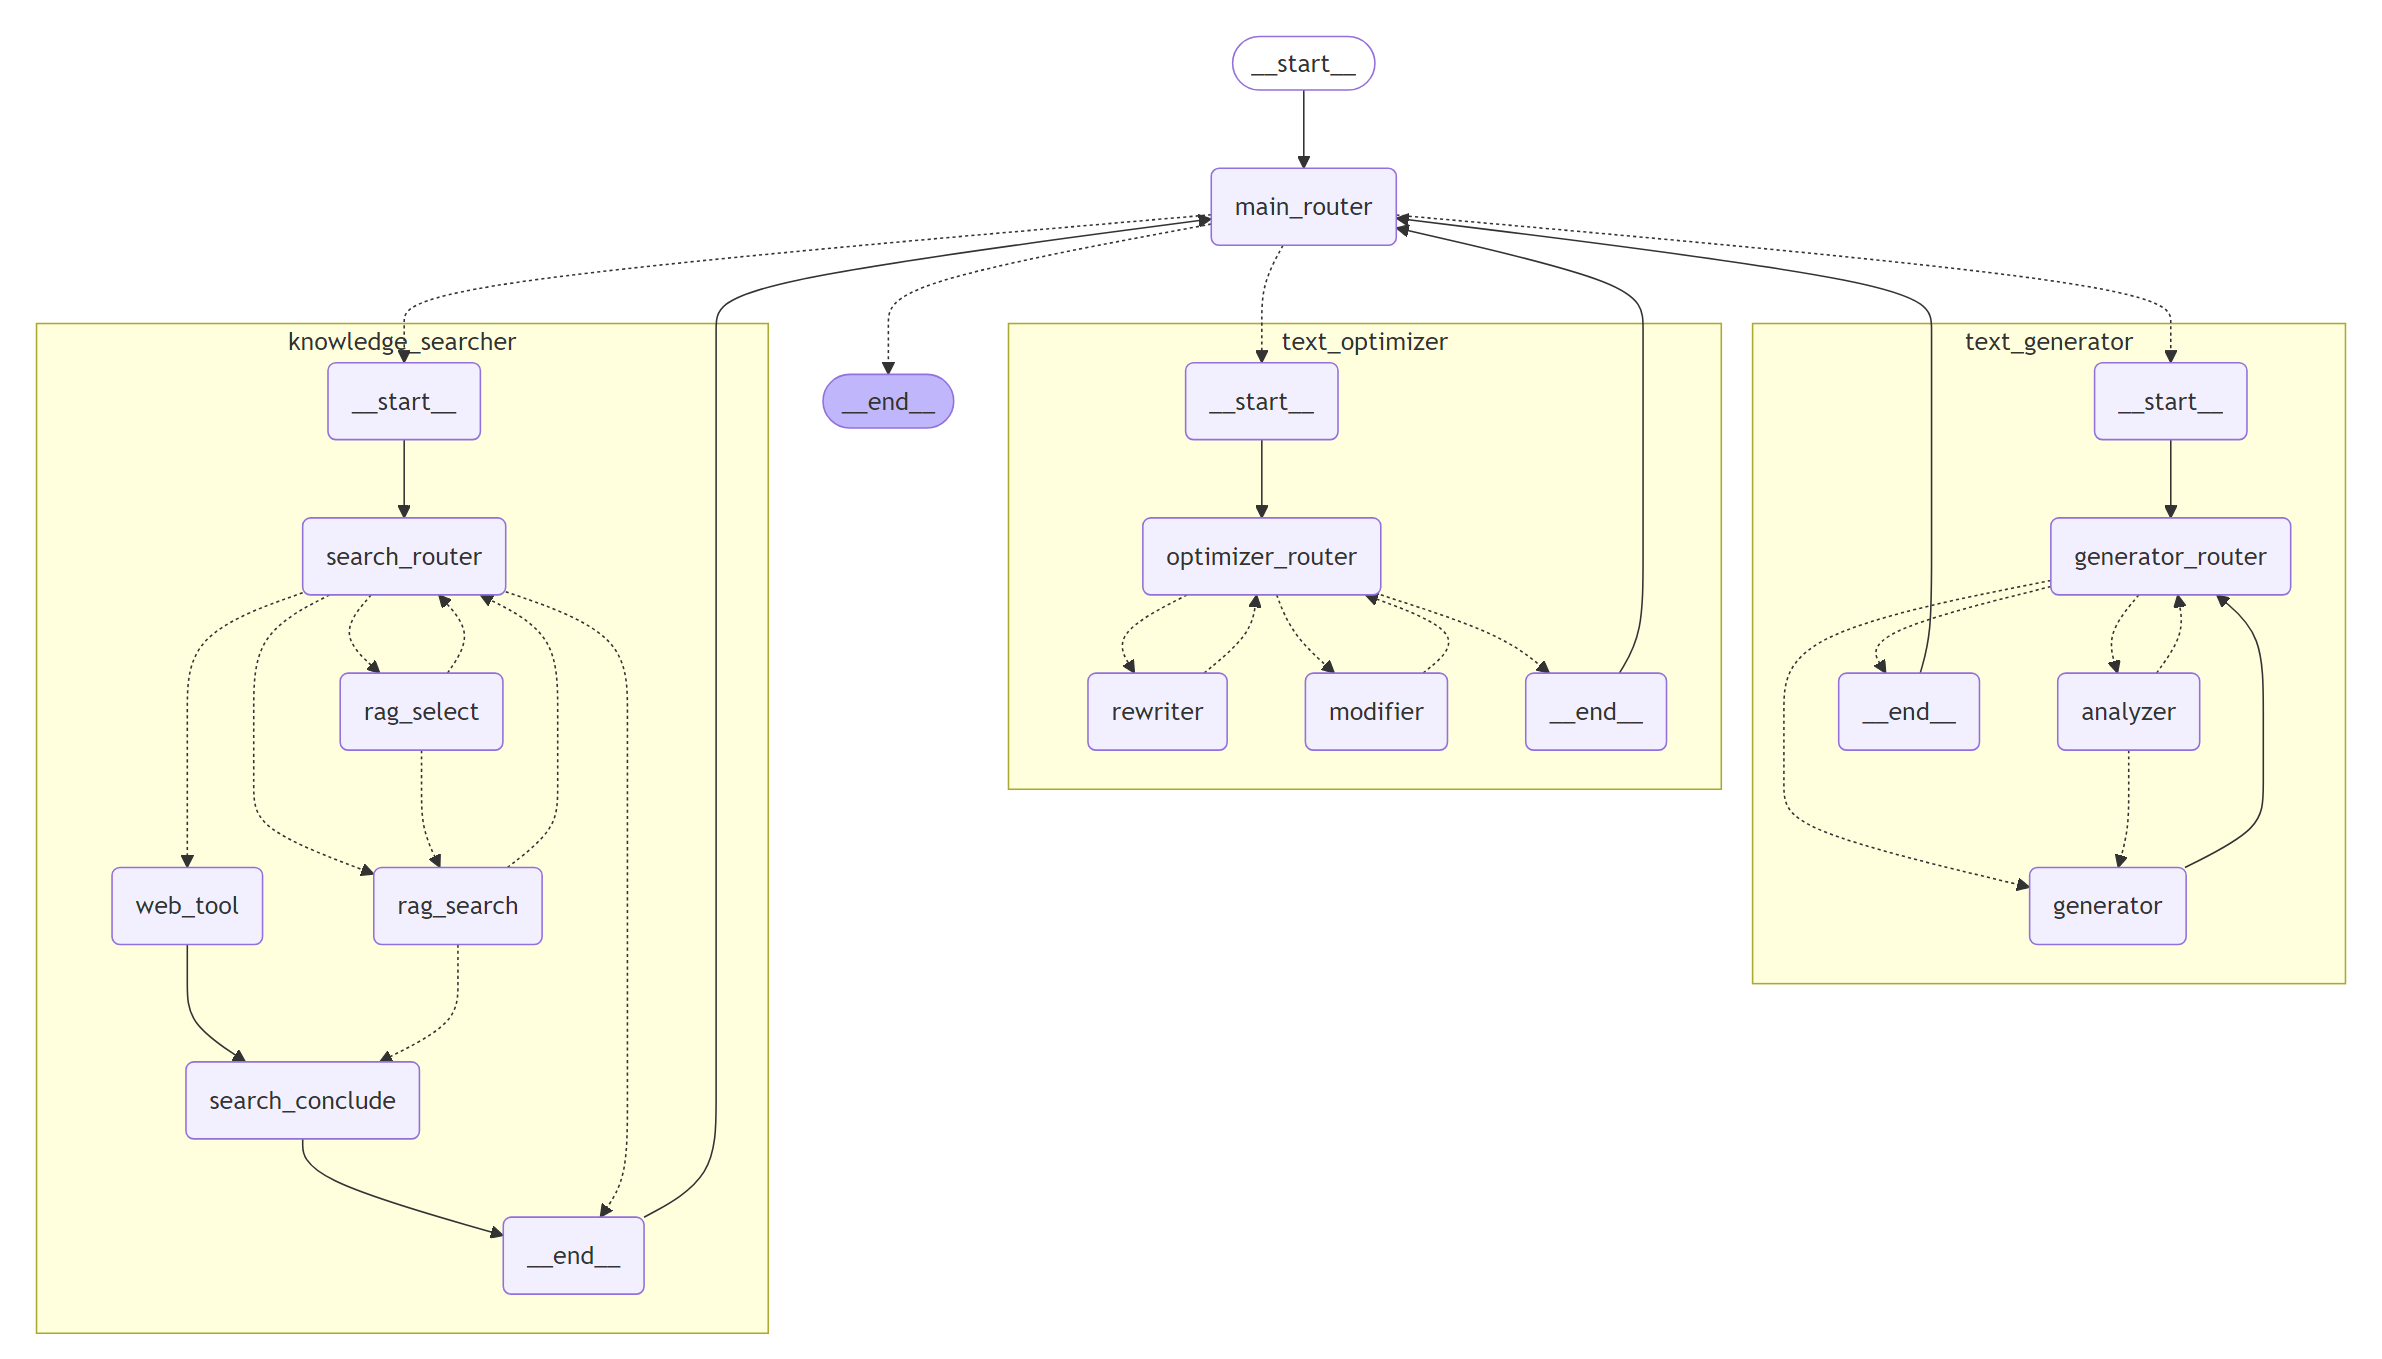
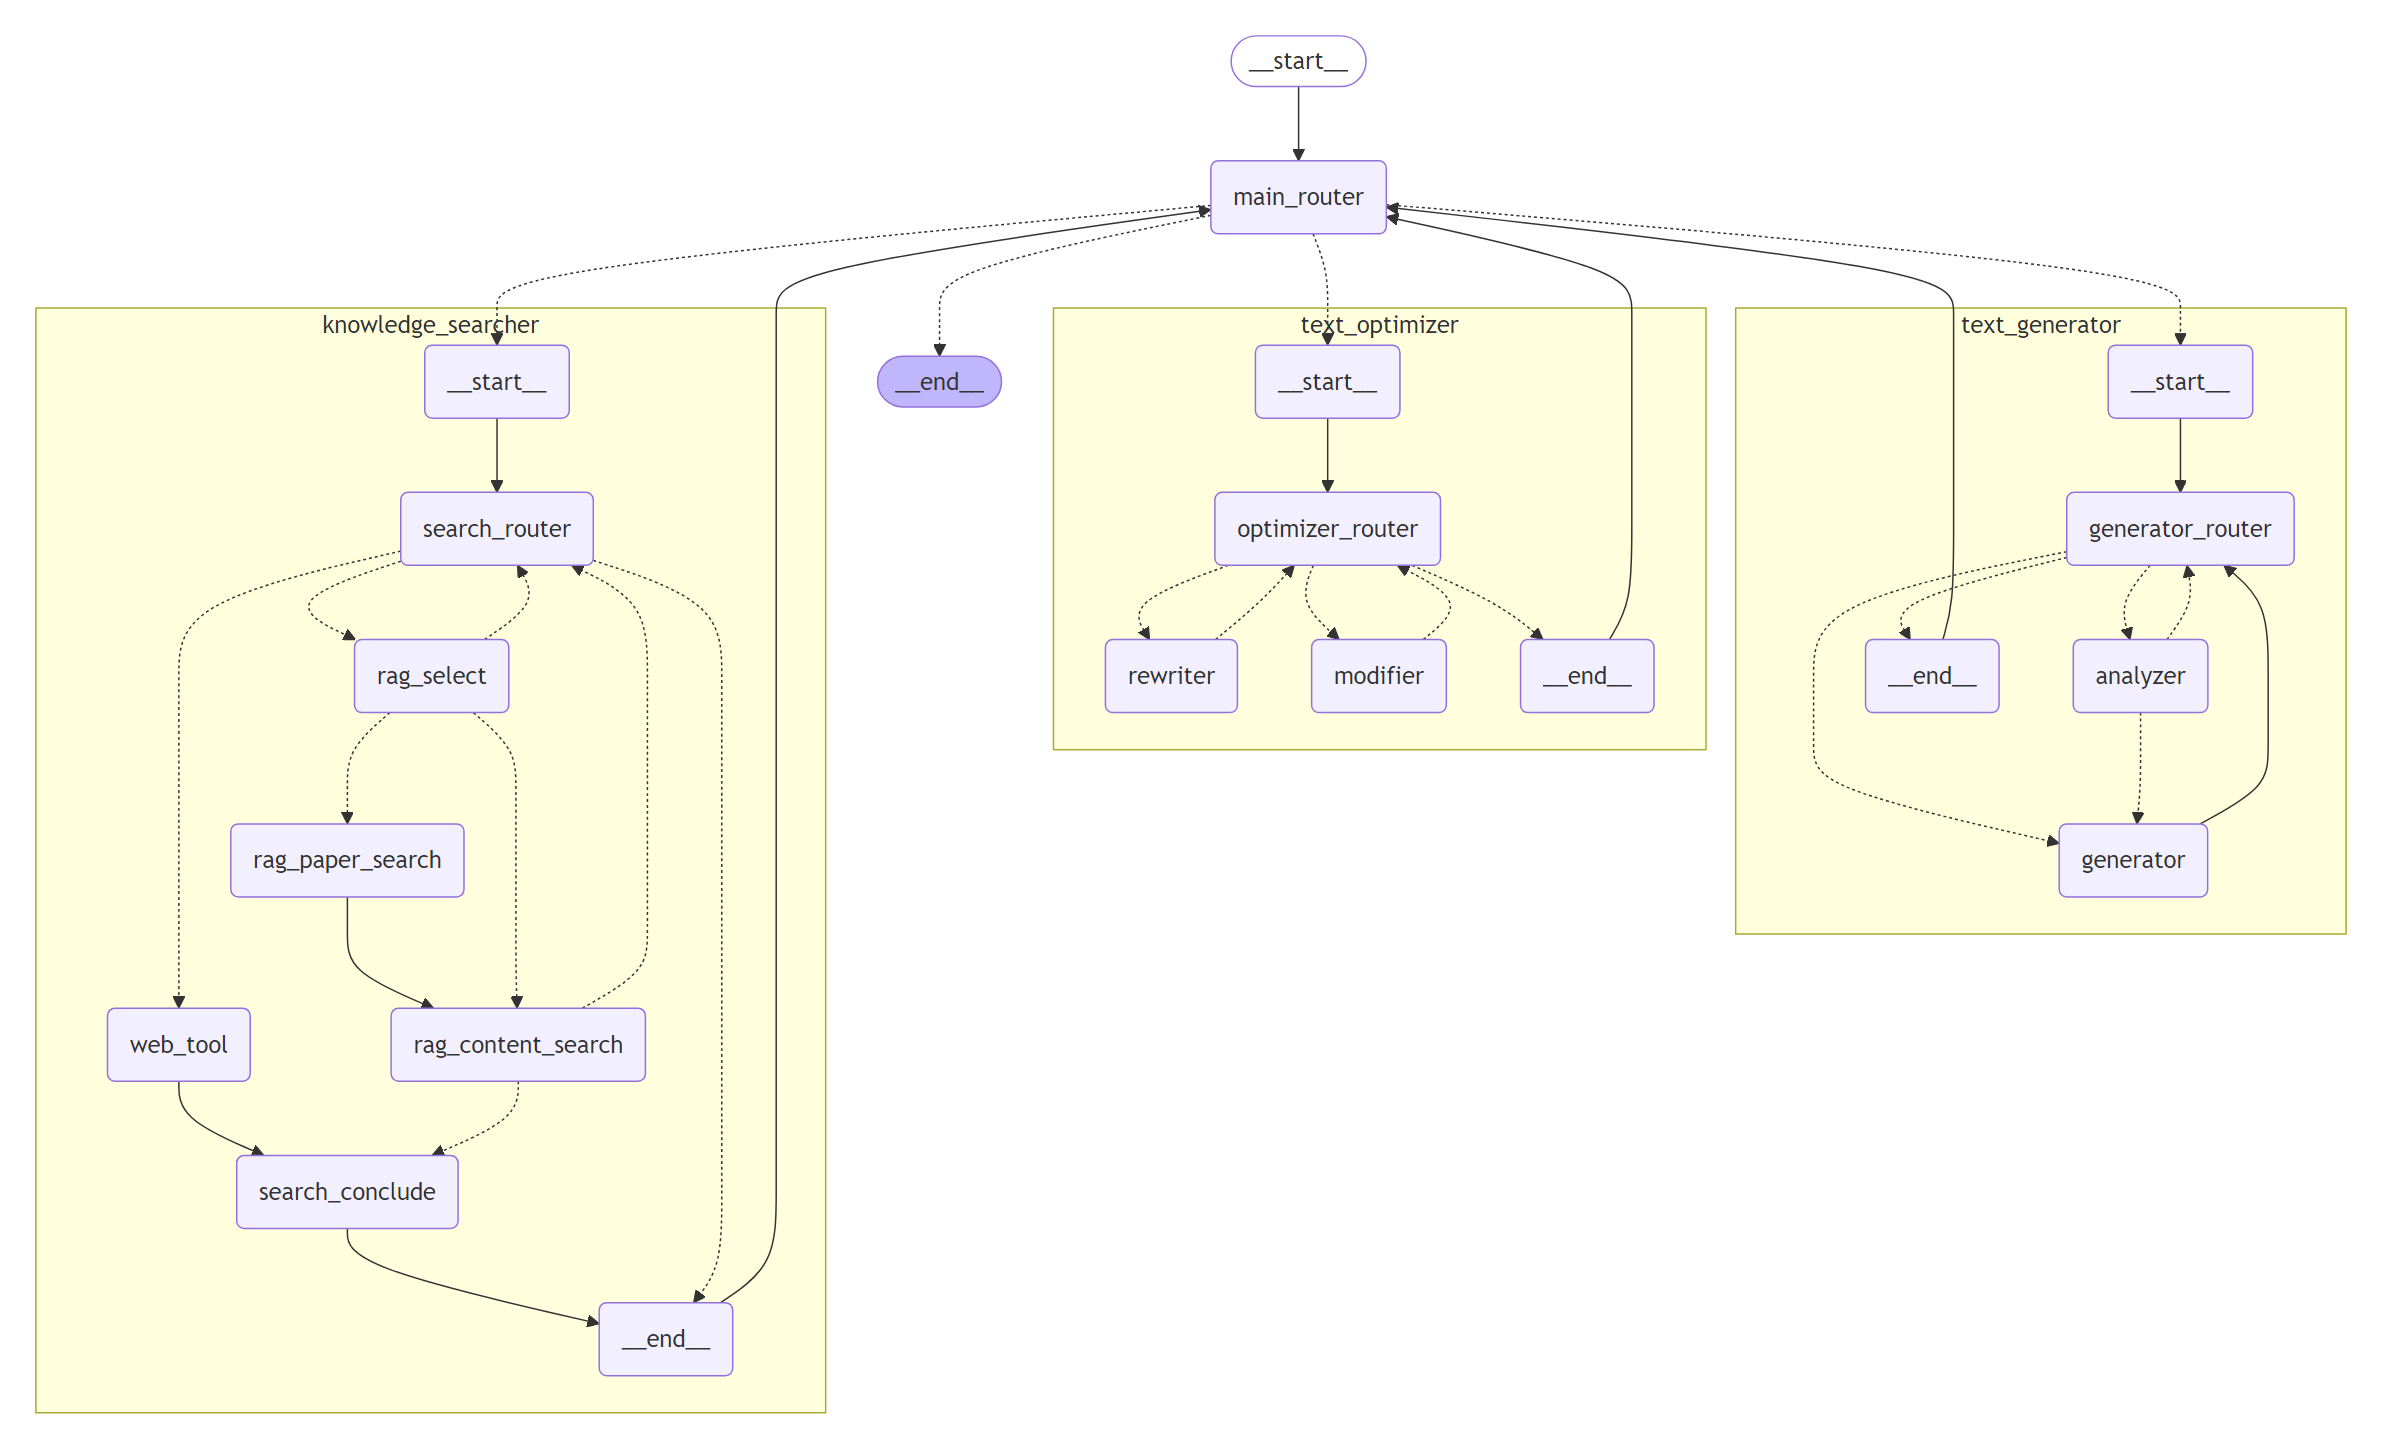
修改知识库查询逻辑

Changed region(s): [[0.0, 0.0, 0.9941, 0.989]]

diff --git a/llm/core/agent.py b/llm/core/agent.py
@@ -55,6 +55,7 @@ class BaseAgentState(MessagesState):
 
 
 class KnowledgeManageAgentState(BaseAgentState):
+    sources: Annotated[list[str], operator.add]
     documents: Annotated[list[Document], operator.add]
 
 
@@ -115,12 +116,12 @@ class KnowledgeManageAgent(BaseModel):
                 return 'web_tool'
             elif tool_call['name'] == self.select_tool.name:
                 return 'rag_select'
-        else:
-            return '__end__'
+
+        return '__end__'
 
     def rag_select_node(
         self, state: KnowledgeManageAgentState
-    ) -> Command[Literal['search_router', 'rag_search']]:
+    ) -> Command[Literal['search_router', 'rag_paper_search', 'rag_content_search']]:
         messages = state['messages']
         tool_call: ToolCall = messages[-1].tool_calls[0]
         tool_call_id = tool_call['id']
@@ -159,31 +160,62 @@ class KnowledgeManageAgent(BaseModel):
                 )
 
         messages.pop(-1)
-        return Command(
-            update={
-                'messages': [
-                    AIMessage(
-                        '',
-                        tool_calls=[
-                            ToolCall(
-                                name=self.rag_search_tool.name,
-                                args=select_result.model_dump(),
-                                id=tool_call_id,
-                            )
-                        ],
-                    )
-                ],
-                'price': token_usage.calculate_cost(self.router_llm),
-            },
-            goto='rag_search',
-        )
+        if select_result.paper_first:
+            return Command(
+                update={
+                    'messages': [
+                        AIMessage(
+                            '',
+                            tool_calls=[
+                                ToolCall(
+                                    name=self.rag_search_tool.name,
+                                    args=select_result.model_dump(),
+                                    id=tool_call_id,
+                                )
+                            ],
+                        )
+                    ],
+                    'price': token_usage.calculate_cost(self.router_llm),
+                },
+                goto='rag_paper_search',
+            )
+        else:
+            return Command(
+                update={
+                    'messages': [
+                        AIMessage(
+                            '',
+                            tool_calls=[
+                                ToolCall(
+                                    name=self.rag_search_tool.name,
+                                    args=select_result.model_dump(),
+                                    id=tool_call_id,
+                                )
+                            ],
+                        )
+                    ],
+                    'price': token_usage.calculate_cost(self.router_llm),
+                },
+                goto='rag_content_search',
+            )
 
     def rag_paper_search_node(self, state: KnowledgeManageAgentState):
         messages = state['messages']
         tool_call: ToolCall = messages[-1].tool_calls[0]
-        tool_call_id = tool_call['id']
 
-        return {}
+        search_result = self.rag_search_tool.invoke(
+            {
+                'question': tool_call['args']['question'],
+                'table_name': tool_call['args']['table_name'],
+                'expr': 'type == "abstract"',
+            }
+        )
+        new_sources = []
+        for doc in search_result:
+            if doc.metadata['file_id'] not in state['sources']:
+                new_sources.append(doc.metadata['file_id'])
+
+        return {'sources': new_sources}
 
     def rag_content_search_node(
         self, state: KnowledgeManageAgentState
@@ -192,7 +224,23 @@ class KnowledgeManageAgent(BaseModel):
         tool_call: ToolCall = messages[-1].tool_calls[0]
         tool_call_id = tool_call['id']
 
-        search_result = self.rag_search_tool.invoke(tool_call['args'])
+        if tool_call['args']['paper_first']:
+            source_str = ','.join([f'"{source}"' for source in state['sources']])
+            search_result = self.rag_search_tool.invoke(
+                {
+                    'question': tool_call['args']['question'],
+                    'table_name': tool_call['args']['table_name'],
+                    'expr': f'file_id in [{source_str}]',
+                }
+            )
+        else:
+            search_result = self.rag_search_tool.invoke(
+                {
+                    'question': tool_call['args']['question'],
+                    'table_name': tool_call['args']['table_name'],
+                    'expr': '',
+                }
+            )
 
         if search_result:
             return Command(
@@ -242,21 +290,21 @@ class KnowledgeManageAgent(BaseModel):
         return {'documents': all_web_docs}
 
     def search_conclude_node(self, state: KnowledgeManageAgentState):
-        origin_question = state['messages'][-1].content
+        origin_question = state['messages'][-1].tool_calls[0]['args']['question']
         reranker = load_reranker()
         clean_output = reranker.compress_documents(state['documents'], origin_question)
 
-        prompt = ChatPromptTemplate.from_messages(
-            [
-                SystemMessage(CONCLUDE_DOCUMENTS_SYSTEM_ZH),
-                ('human', CONCLUDE_DOCUMENTS_HUMAN_ZH),
-            ]
-        )
-        chain = prompt | self.task_llm
+        # prompt = ChatPromptTemplate.from_messages(
+        #     [
+        #         SystemMessage(CONCLUDE_DOCUMENTS_SYSTEM_ZH),
+        #         ('human', CONCLUDE_DOCUMENTS_HUMAN_ZH),
+        #     ]
+        # )
+        # chain = prompt | self.task_llm
         doc_str = format_docs(clean_output)
-        response = chain.invoke({'question': origin_question, 'doc_str': doc_str})
+        # response = chain.invoke({'question': origin_question, 'doc_str': doc_str})
 
-        title = response.content
+        title = origin_question
         body = f'# {title}\n\n<documents>{doc_str}<documents>'
 
         manuscript = ManuscriptTable(
@@ -269,22 +317,20 @@ class KnowledgeManageAgent(BaseModel):
         with Session(engine) as session:
             insert_manuscript(session, manuscript)
 
-        token_usage = UsageMetadata.create(response.usage_metadata)
         return {
             'messages': [
                 AIMessage(
                     content=f'我已经找到了相关的资料，并将相关资料保存到了文件《{title}》中。'
                 )
             ],
-            'price': token_usage.calculate_cost(self.router_llm),
         }
 
     def build(self) -> CompiledStateGraph:
         searcher = StateGraph(KnowledgeManageAgentState)
         searcher.add_node('search_router', self.search_router)
         searcher.add_node('rag_select', self.rag_select_node)
-        searcher.add_node('rag_content_search', self.rag_content_search_node)
         searcher.add_node('rag_paper_search', self.rag_paper_search_node)
+        searcher.add_node('rag_content_search', self.rag_content_search_node)
         searcher.add_node('web_tool', self.web_tool_node)
         searcher.add_node('search_conclude', self.search_conclude_node)
 
@@ -585,6 +631,8 @@ class MainAgent(BaseModel):
 
         if self.task_llm is None:
             self.task_llm = load_llm('gpt-4o-mini')
+
+        return self
 
     @staticmethod
     @tool

diff --git a/llm/core/template.py b/llm/core/template.py
@@ -73,10 +73,7 @@ RAG_HUMAN_ZH = """<documents>
 """
 
 AGENT_SYSTEM_ZH = """## 人设
-你是一个多智能体协作的文本写作系统，负责根据用户的需求或上下文，智能地分配任务给相关的智能体进行信息查询、文本生成和文本润色。  
-待处理的文本、数据、具体的数据库内容等对你而言都是不可见的，你只需要负责分配任务和转达智能体的消息给用户即可。
-你的任务是： 根据用户输入的情况，决定调用哪个智能体（generate_task、optimize_task 或 search_task）来处理任务。  
-
+你是一个多智能体协作的调度员，你的任务是： 根据用户输入的情况，决定调用哪个智能体（generate_task、optimize_task 或 search_task）来处理任务。  
 
 ## 任务流程  
 1. 需求解析
@@ -95,13 +92,11 @@ AGENT_SYSTEM_ZH = """## 人设
         示例："写一篇关于AI伦理的论文，需要引用近3年数据，完成后优化可读性"
         → 触发 generate_task → search_task → generate_task → optimize_task 链式调用
 
-
 ## 任务要求  
-- 由于任务分工，你只需要分析用户的意图并调用相应的智能体即可，他们能看到具体的信息。
+- 由于任务分工，所有需要具体处理的文本、数据等你均不可见，响应的子智能体自然能看到他们，你**不需要向用户索要这些信息**。
 - 当用户指令存在冲突时（如要求同时保持原意和彻底改写），直接返回并要求用户给出更明确的意图。
 - 始终记得，你**不需要担任具体的任务处理**，你只用做任务分配和信息转达的功能。
 - 如果你决定要调度智能体，每次仅能调用一个
-- 具体的文本、数据等相关的智能体能看到，不要跟用户索要。
 """
 
 KNOWLEDGE_MANAGE_SYSTEM_ZH = """## 人设
@@ -149,13 +144,11 @@ SELECT_KNOWLEDGE_BASE_SYSTEM_ZH = """## 人设
 
 ## 注意事项
 1. 生成的question应包含核心关键词和必要的限定条件
-2. 知识库选择优先级：
-   - 领域匹配度 > 时间范围 > 内容类型匹配度
-3. 两阶段检索示例：
+2. 两阶段检索示例：
    ✅ paper_first=True："请帮我找关于神经网络架构优化的最新研究"
    ✅ paper_first=False："卷积神经网络中的ReLU函数具体公式是什么"
-4. 当知识库包含论文摘要和全文时，优先考虑两阶段检索
-5. 如果无法确定相关度，table_name保持空字符串
+3. 如果无法确定相关度，table_name保持空字符串
+4. 如果可选知识库中只有一个选项，则代表用户强制要求从这个知识库中进行查询，你无需再进行选择直接将table_name设为该知识库即可
 """
 
 CONCLUDE_DOCUMENTS_SYSTEM_ZH = """## 人设

diff --git a/app/api/v1/endpoints/write.py b/app/api/v1/endpoints/write.py
@@ -380,9 +380,14 @@ async def chat(
                             event=ChatEventType.STATUS, data='自行决策选择知识库'
                         ).to_sse()
                     elif event['name'] == 'search_from_vecstore':
-                        yield SSEMessage(
-                            event=ChatEventType.STATUS, data='搜索知识库'
-                        ).to_sse()
+                        if event['metadata']['langgraph_node'] == 'rag_paper_search':
+                            yield SSEMessage(
+                                event=ChatEventType.STATUS, data='搜索相关文献'
+                            ).to_sse()
+                        else:
+                            yield SSEMessage(
+                                event=ChatEventType.STATUS, data='搜索知识库'
+                            ).to_sse()
                     elif event['name'] == 'modifier':
                         yield SSEMessage(
                             event=ChatEventType.STATUS, data='分析修改策略'

diff --git a/llm/tool/search.py b/llm/tool/search.py
@@ -13,7 +13,7 @@ config = get_settings()
 
 
 class WebSearchInput(BaseModel):
-    query: str = Field(description='联网搜索的关键词')
+    question: str = Field(description='联网搜索的关键词')
 
 
 class WebSearchTool(BaseTool):
@@ -98,7 +98,7 @@ class WebSearchTool(BaseTool):
 
         raise ToolException('所给出的问题没有在互联网上找到相关信息。')
 
-    def _run(self, query: str) -> list[str]:
+    def _run(self, question: str) -> list[str]:
         """调用工具进行联网搜索"""
-        urls = self.search(query)
+        urls = self.search(question)
         return urls

diff --git a/llm/tool/rag.py b/llm/tool/rag.py
@@ -52,10 +52,11 @@ class SelectKnowledgeBase(BaseTool):
         with Session(engine) as session:
             kb_list = get_knowledge_bases(session, 0, 20)
 
+        logger.debug(kb_list)
         if self.available_knowledge_bases:
             available_kbs = '\n=================\n'.join([
                 f'name: {kb.table_name}\ndescription: {kb.description}'
-                for kb in kb_list if kb in self.available_knowledge_bases
+                for kb in kb_list if kb.uid in self.available_knowledge_bases
             ])
         else:
             available_kbs = '\n=================\n'.join([
